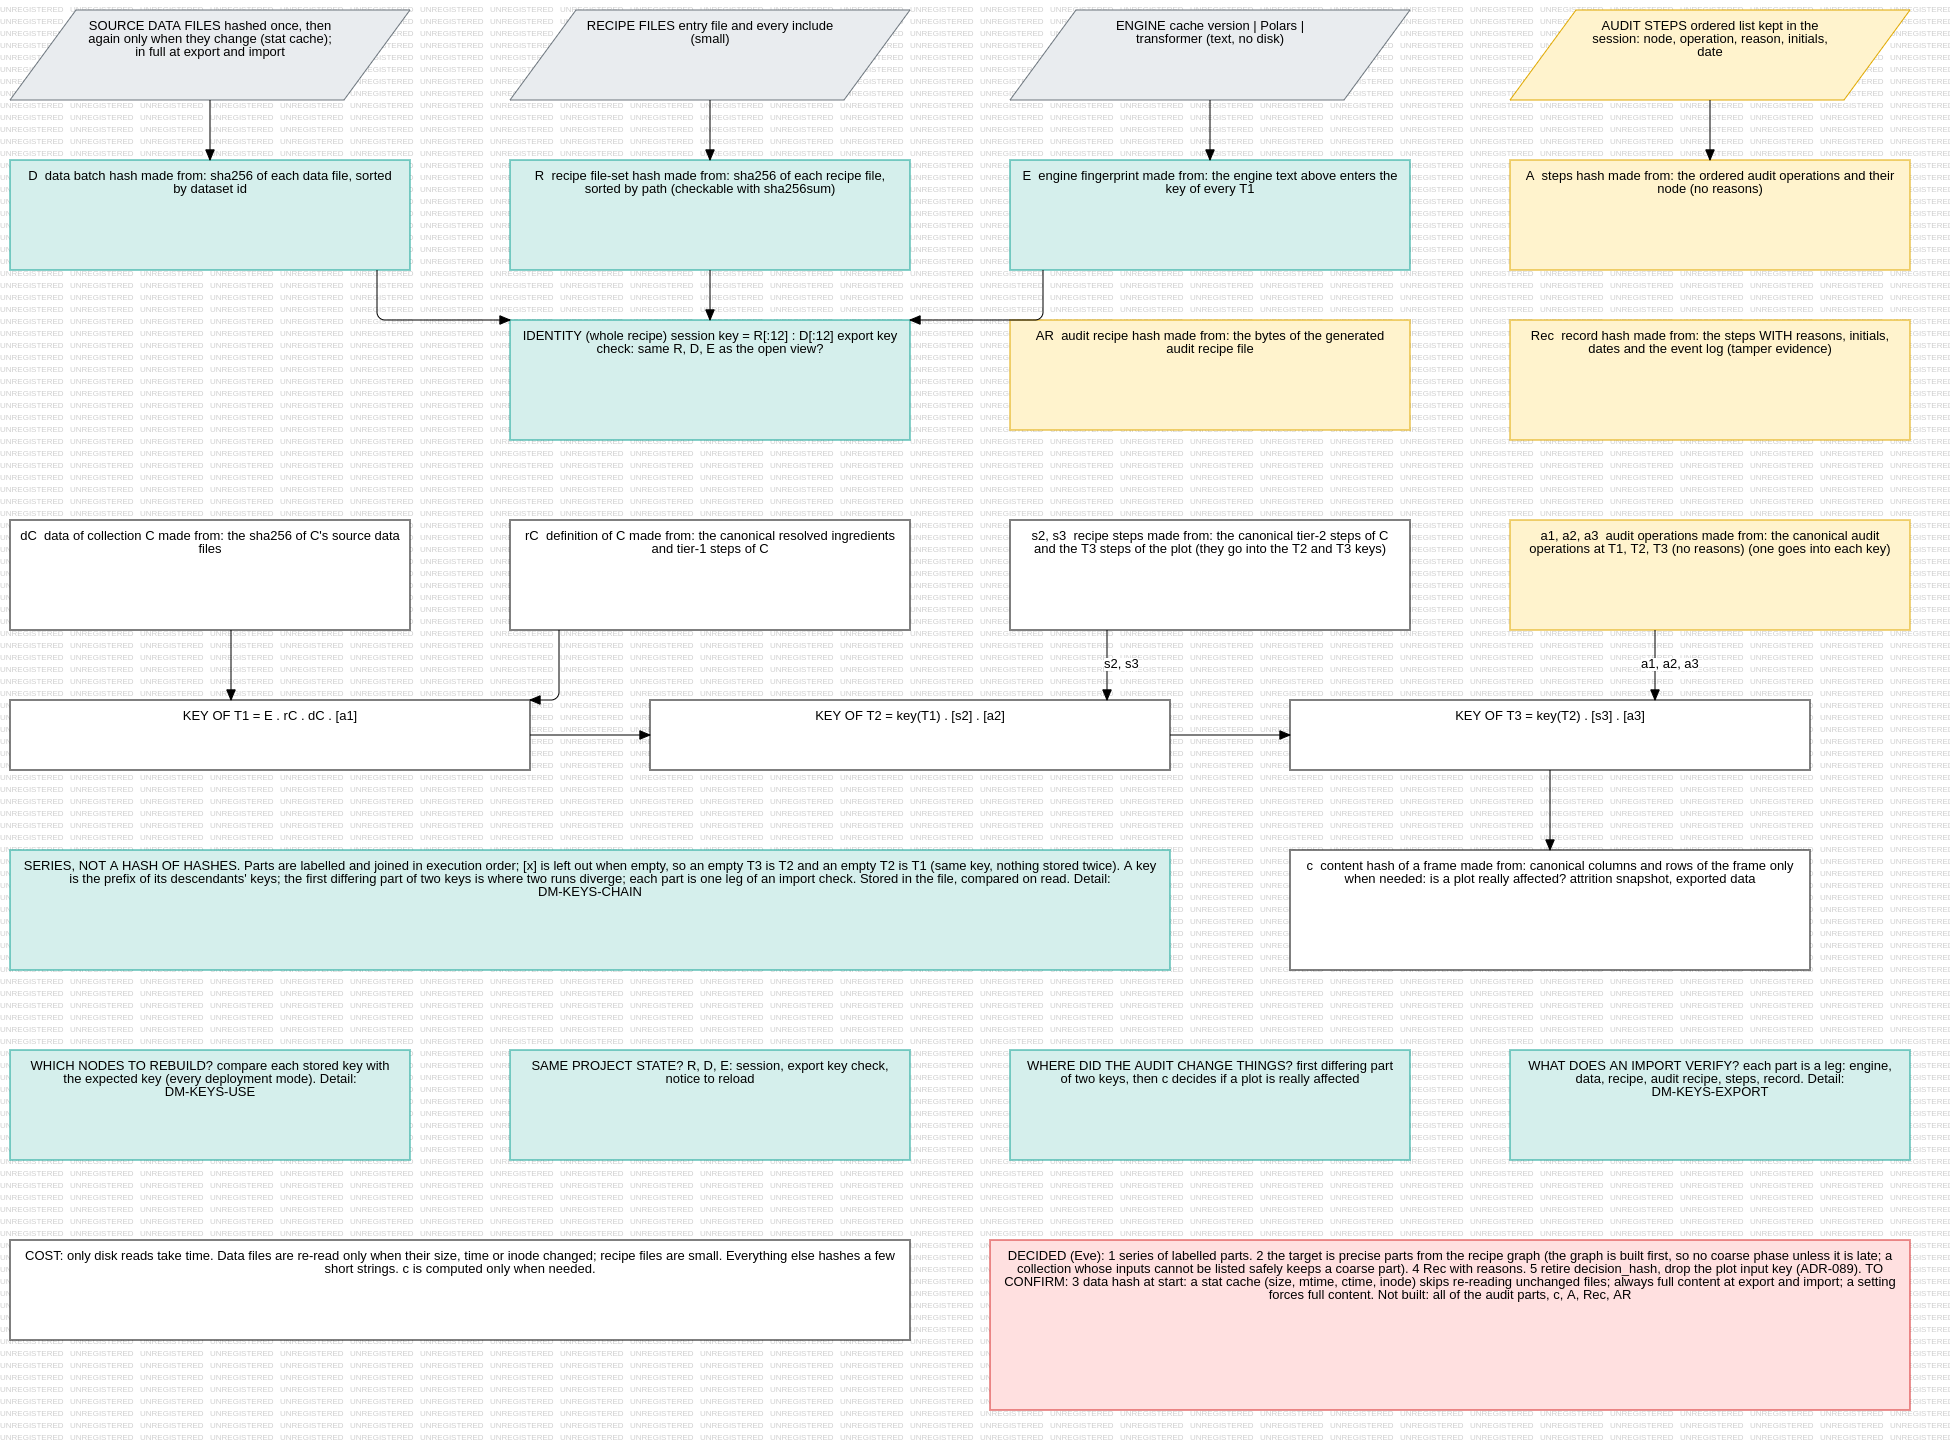
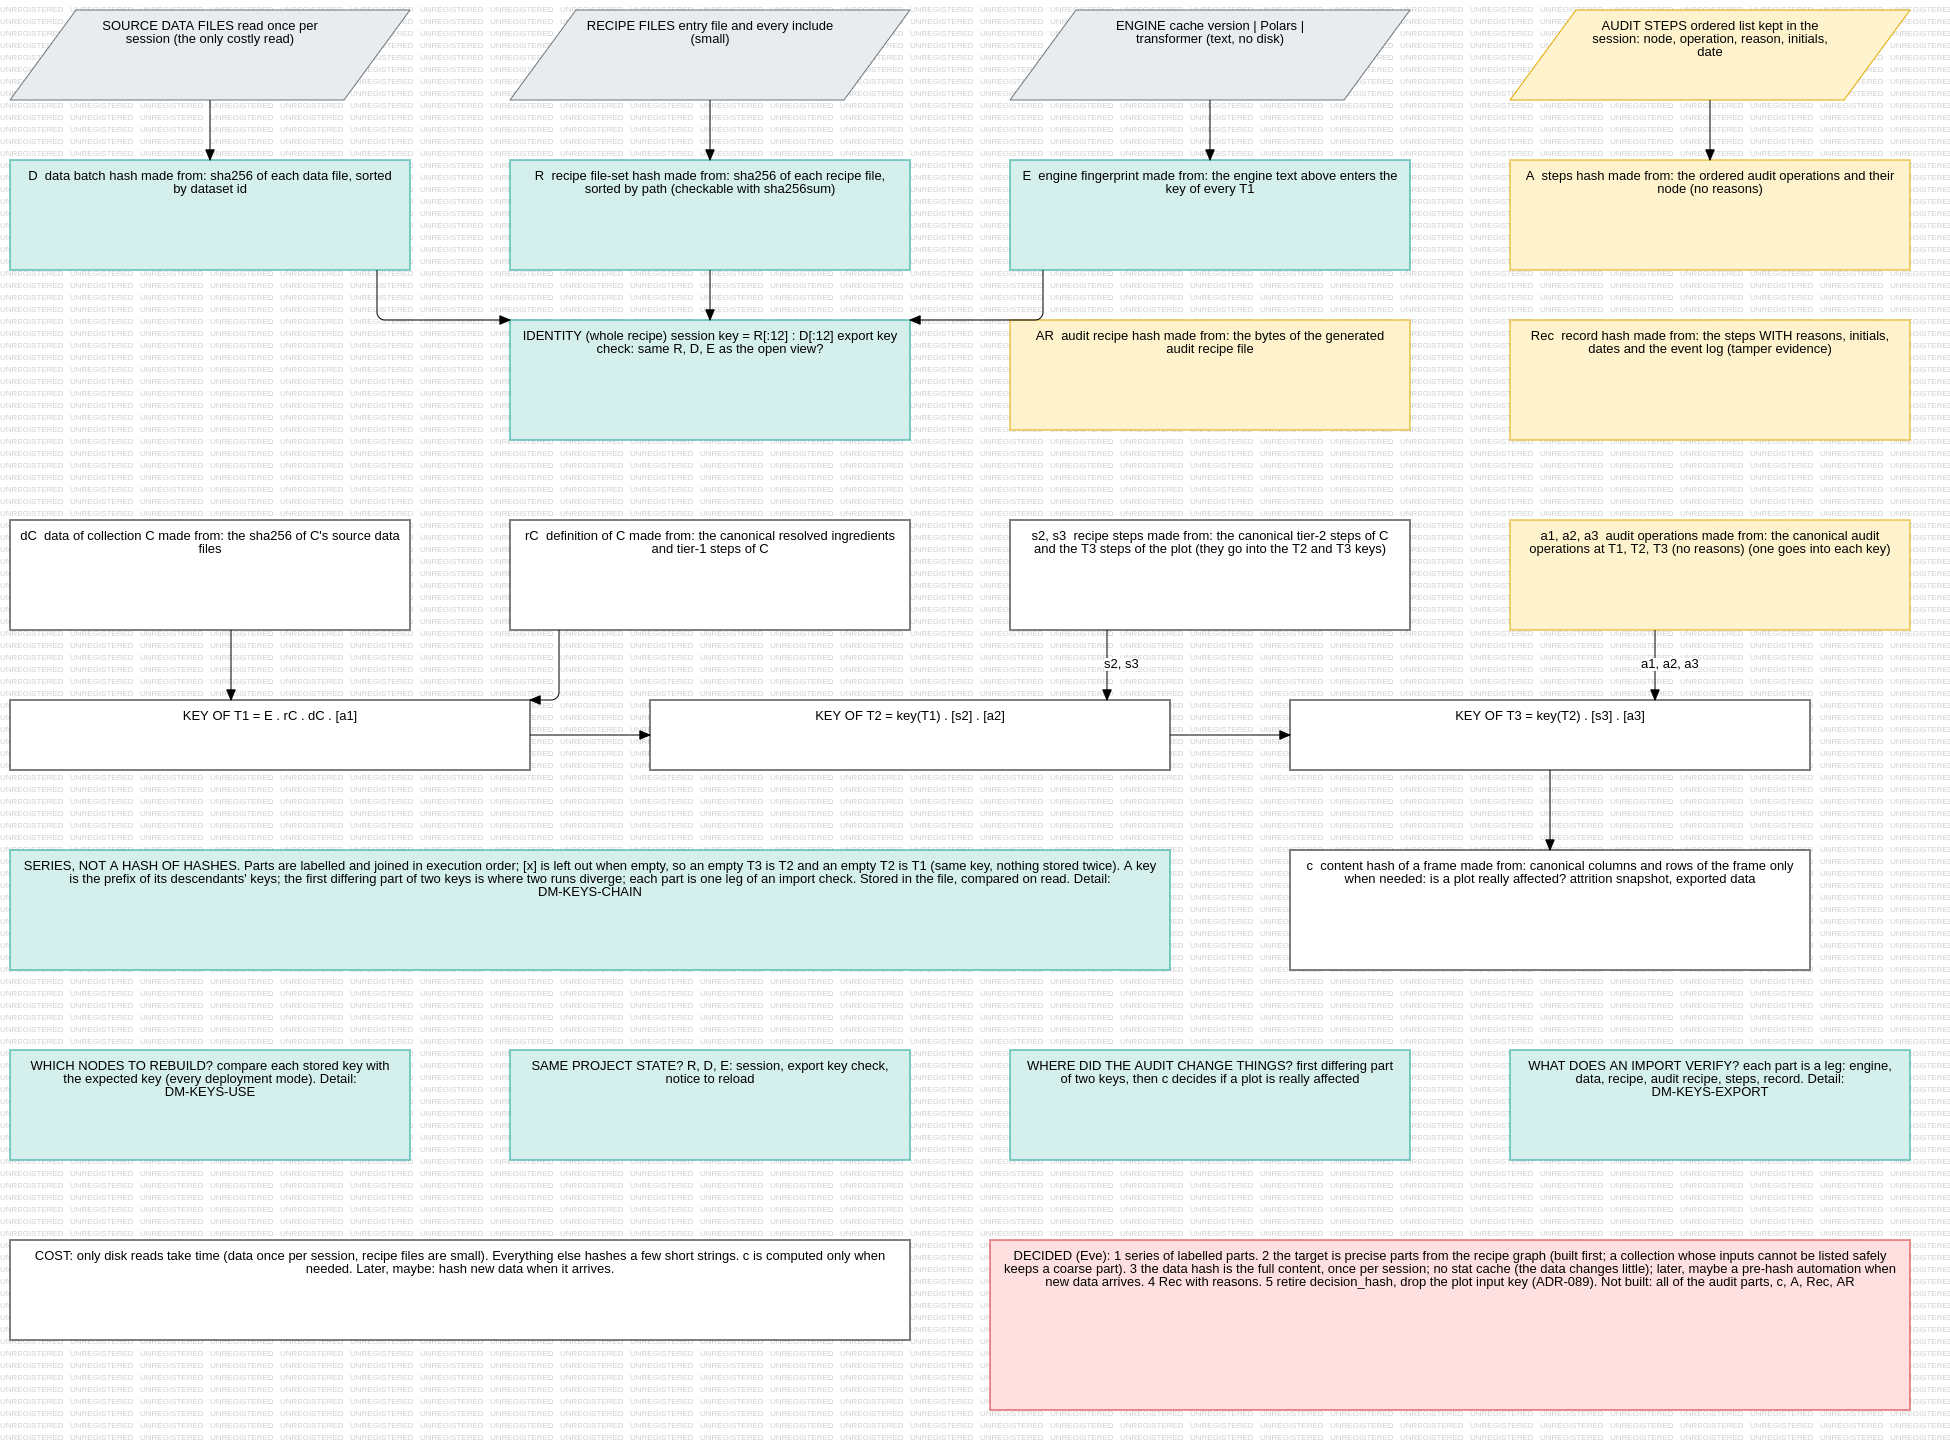
docs: data hash stays the full content once per session; hash schema, ADR-089 and provenance notes amended

Changed region(s): [[0.5231, 0.8379, 0.9846, 0.9], [0.0308, 0.8379, 0.4615, 0.9], [0.0308, 0.0, 0.1846, 0.031]]

diff --git a/.claude/design/home_evidence/home_hash_model_2026-11-12.md b/.claude/design/home_evidence/home_hash_model_2026-11-12.md
@@ -48,8 +48,8 @@ Eve's reading ("node hashes see changes, whole-recipe hashes decide recomputatio
 
 ## 5. Decisions (Eve, 2026-11-12) and the one still open
 **Decided:** (1) the series of labelled parts, 128 bits each; (2) the target is **precise parts from the recipe graph**; the graph is built first (it is needed anyway), so there is no separate coarse phase unless the graph is late; a collection whose inputs cannot be listed safely keeps a coarse part (fail-safe), and a property test is the gate: changing any input of a collection changes its key; (4) the record hash `Rec` with reasons; (5) retire the older `decision_hash` (after checking that nothing else calls it) and drop the plot input key from ADR-089.
-**Open (3), proposal:** the data hash at start. Reopening the app already reuses the stored tables (verified: a second session did not rewrite the T1 file; tests `test_nothing_changed_keeps_the_anchor` and `test_data_change_rebuilds_with_the_new_rows`), but every start re-reads and hashes all data files (150 ms for the 4.6 MB of test data, proportional to the data). Proposal: a **stat cache** (size, mtime, ctime, inode per file, as git does) so that unchanged files are not read again at start, **full content hashing always at export and at import** (so the recorded and verified hashes never rely on the cache), and a setting that forces full content. A file imported or replaced changes its stat and its hash: the nodes of the collections that use it are rebuilt, the others are kept (precise parts); the session key changes, so audit steps of the old data stay with the old session (restoring them warns).
+**(3) decided (Eve, 2026-11-12):** the data hash stays the **full content, once per session** (reopening reuses the stored tables, verified; the hashing took 150 ms for the 4.6 MB of test data); **no stat cache** now, because the data changes little; later, maybe a **pre-hash automation** that hashes new data when it arrives. A file that is imported or replaced changes its hash: the nodes of the collections that use it are rebuilt, the others are kept; the session key changes, so audit steps of the old data stay with the old session (restoring them warns).
 
 ## 6. UML and documents (done 2026-11-12 for the UML, with Eve's general OK to change what must change)
 **New diagrams** (folder "Data and configuration"): `DM-KEYS` (the general picture: what each hash is made from, what it answers, the cost), with details `DM-KEYS-CHAIN` (the series of node keys, original and audit, illustrative example), `DM-KEYS-USE` (when each hash is computed, checked and recorded, by situation) and `DM-KEYS-EXPORT` (what the export records and what the import verifies). **Changed:** `HOME-AUDIT-CACHE` (the series key, audit T1 = original T1 plus the step, T3 cached by key), `EXP-MODES` (the legs and the content of effective_run.yaml), `STM-STAGE` (a stored stage is not stored when the step list is empty), `SEQ-EXPORT` (the message about the legs). `audit_uml_model.py`: no discrepancy. PNG files in `docs/UML/diagrams/`.
-**Still to do:** `docs/foundations/reproducibility_hash_schema.qmd`, ADR-089 (amended by ADR-099 point 16) and `docs/UML/cross_cutting_concepts.md` (Provenance), after Eve confirms the model; the plot-level diagrams of the audit redesign (UML-HOME-REDRAW-1).
+**Documents amended with a "to be amended" note 2026-11-12:** `docs/foundations/reproducibility_hash_schema.qmd`, ADR-089, `docs/UML/cross_cutting_concepts.md`. **Still to do:** the plot-level diagrams of the audit redesign (UML-HOME-REDRAW-1).

diff --git a/.claude/knowledge/architecture_decisions.md b/.claude/knowledge/architecture_decisions.md
@@ -4218,6 +4218,7 @@ separate "Compare T2 vs T3" switch (visible only in My view) split the plots in 
 ## ADR-089: Cache chain, chained content keys for Tier 1, Tier 2 and the loaded manifest (2026-11-05)
 
 > **To be amended by ADR-099 (not yet built):** the original cache keeps these rules; a separate audit cache with chained keys is added next to it (key = hash of the upstream key and the operations that will run, stored in the file).
+> **Amended by ADR-099 point 16 (Eve, 2026-11-12, not yet built):** a key is a **series of labelled parts** joined in execution order, not a hash of hashes: `E . rC . dC . [a1] . [s2] . [a2] . [s3] . [a3]`, 128 bits per part, an empty part is left out (T3 = T2 = T1); the T1 key is per collection with precise parts from the recipe graph (point 2 of the decision below stays fail-safe for a collection whose inputs cannot be listed); T3 and audit nodes have keys; `data_batch_hash` stays the full content hashed once per session (point 8, no stat cache; later maybe a pre-hash when new data arrives); the plot input key of the table below is dropped (never built); the older `decision_hash` is retired. Model: `.claude/design/home_evidence/home_hash_model_2026-11-12.md`, diagrams `DM-KEYS*`.
 
 **Status:** ACCEPTED (2026-11-05, confirmed by @evezeyl). Authority: @dasharch, decided with @evezeyl after a verified bug (fork issues evezeyl/SPARMVET_VIZ#9 and #10).
 **Extends:** ADR-024 (tiers), the reproducibility hash schema (`docs/foundations/reproducibility_hash_schema.qmd`), ADR-031 (decision hash in Parquet metadata), ADR-088 point 6.

diff --git a/docs/UML/cross_cutting_concepts.md b/docs/UML/cross_cutting_concepts.md
@@ -56,6 +56,8 @@ Every stored artifact that can be compared against another run carries the keys 
 `report.qmd`, and are embedded in exported PNG/SVG metadata. The export's key check
 (`REQ-VIZ-EXP-01`) exists because these keys can be compared cheaply before any heavy recomputation.
 
+*Target (ADR-099 point 16, not yet built):* node keys become a series of labelled parts and cover T3 and the audit steps; the export records the engine, data, recipe, audit recipe, steps and record legs and the key of every exported node. See the diagrams `DM-KEYS`, `DM-KEYS-CHAIN`, `DM-KEYS-USE`, `DM-KEYS-EXPORT`.
+
 ## Reactive write discipline (ADR-045 companion, `ui_implementation_contract.md` section 14)
 
 Four rules, found the hard way from real bugs this session traced through `COM-REACTIVE`:
